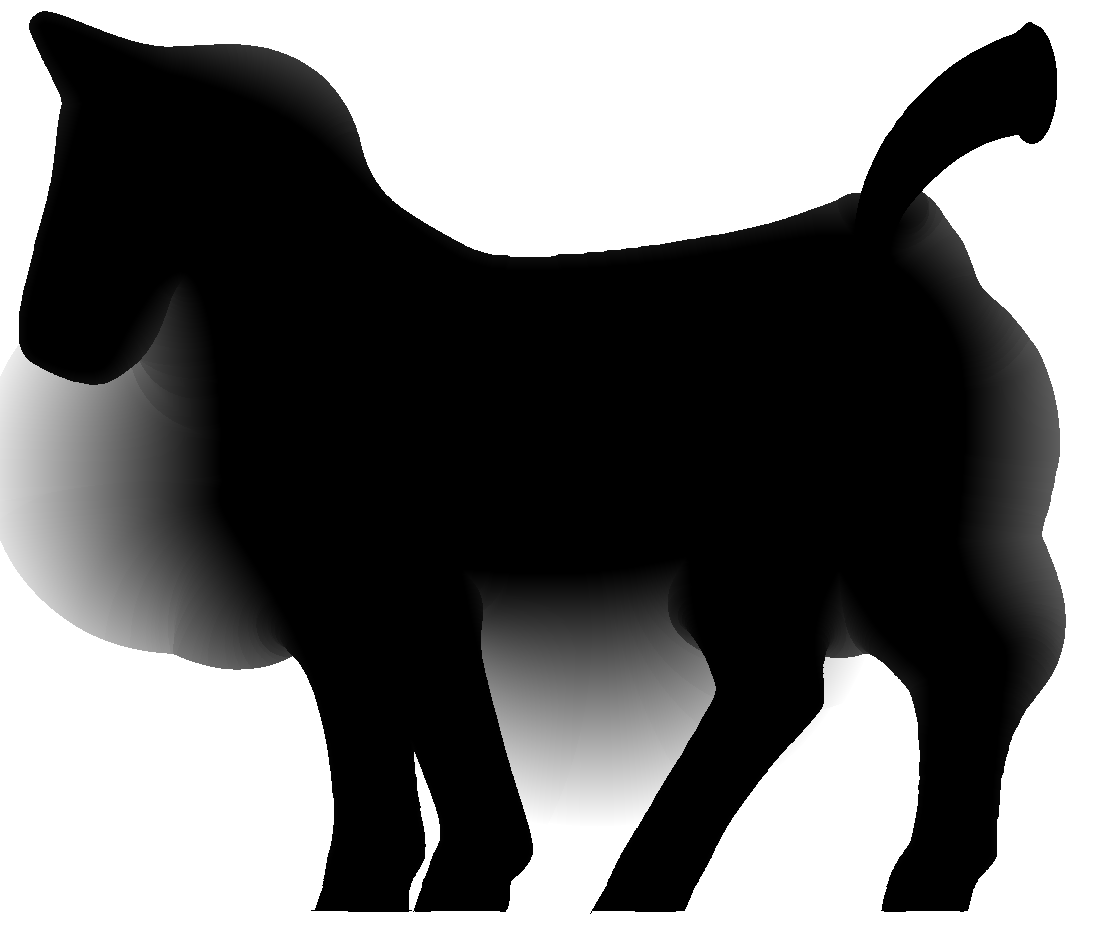
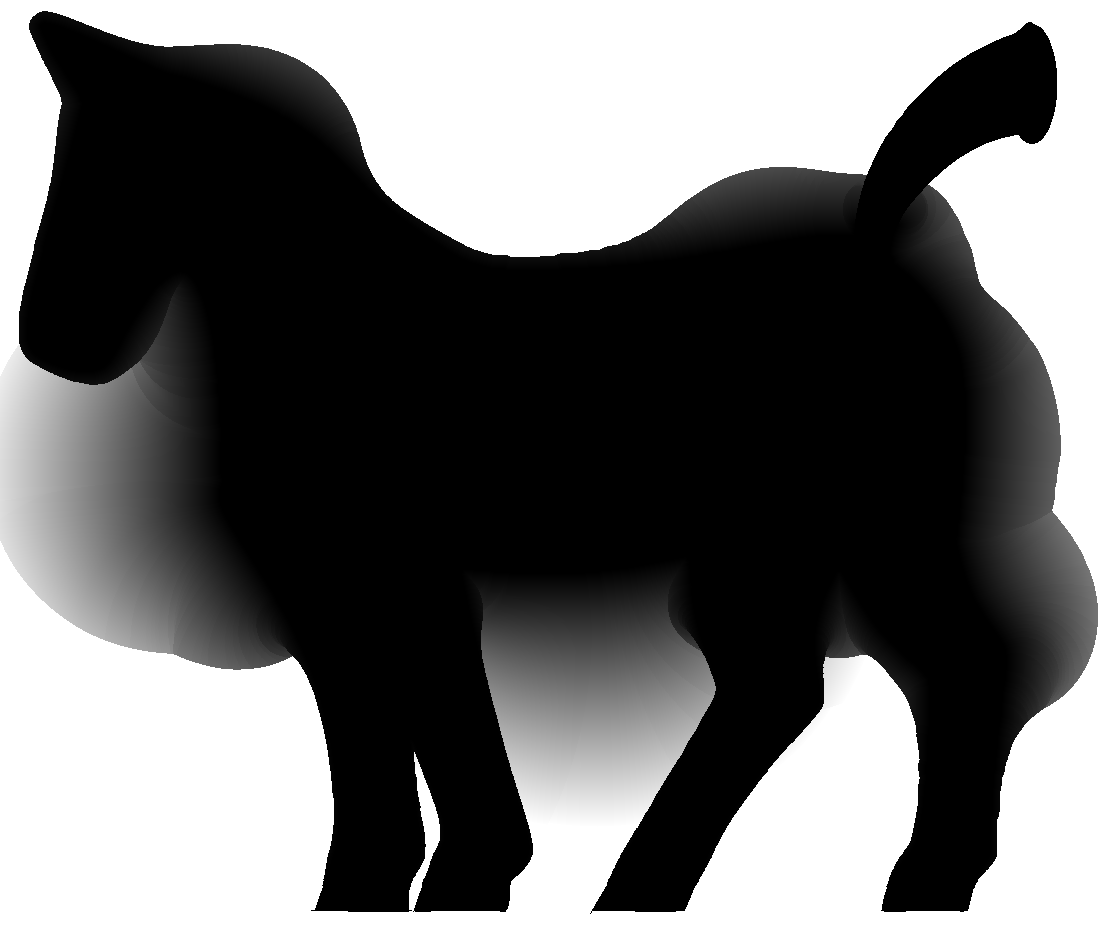
Feral horse round 5: the cheek's top is the back line (above it when fat, sagging onto the thigh), the belly is a sagging circle
Claude-Session: https://claude.ai/code/session_01BbqwAJD2Vg3JdyvgRbQtV6

diff --git a/lab/feral/bench.src.html b/lab/feral/bench.src.html
@@ -96,7 +96,7 @@ const ASSET = /*ASSETS*/null;
 /*ENGINE*/
 
 // ---------- the feral body: the app's soft belly on the horse's own outline, a neck that bends for the belch, the app's fat scheme
-const M = RIG, PAD = 44, OX = 110, OY = 80, OXR = 80, still = () => matchMedia("(prefers-reduced-motion: reduce)").matches;
+const M = RIG, PAD = 44, OX = 110, OY = 80, OXR = 150, still = () => matchMedia("(prefers-reduced-motion: reduce)").matches;
 const IMG = {}; for (const k in ASSET) IMG[k] = Object.assign(new Image(), { src: ASSET[k] });
 const ready = () => Object.values(IMG).every(i => i.complete && i.naturalWidth);
 const canvasOf = (w, h) => Object.assign(document.createElement("canvas"), { width: w, height: h });
@@ -111,8 +111,12 @@ function refit() {
   const key = E.fill.toFixed(4) + ":" + E.fat.toFixed(3); if (key === E.fitKey) return; E.fitKey = key;
   const N = silSoft(bellyAt(Math.max(0, E.fill), E.fat), M.belly.mob, SOFT), B = E.belly;
   B.pts = N.pts; B.nrm = N.nrm; B.cx = N.cx; B.cy = N.cy; B.ry = N.ry;
+  // how loose each point is follows where it is now: fixed where it sits up inside the body, free where it hangs below
+  const y0 = M.belly.rootY + E.fat * M.fat.drop, y1 = M.belly.looseY + E.fat * M.fat.drop;
+  B.mob = B.pts.map(p => { const u = Math.max(0, Math.min(1, (p[1] - y0) / (y1 - y0))); return u * u * (3 - 2 * u); }); B.cmob = B.ci.map(i => B.mob[i]); B.seam = B.mob.map(m => m > 0.12 ? 1 : 0);
   const sz = 0.3 + 0.7 * Math.max(0, Math.min(1, E.fill)); B.cap = SOFT.cap * sz; B.max = SOFT.max * sz;   // a small belly wobbles less far than a big one
 }
+refit();
 const neckAngle = r => { const u = Math.max(0, Math.min(1, (r - M.neck.r0) / (M.neck.r1 - M.neck.r0))); return E.head.a * 1.3 * u * u * (3 - 2 * u); };
 function mouthNow() { const [px, py] = M.neck.piv, [mx, my] = M.neck.mouth, dx = mx - px, dy = my - py, a = neckAngle(Math.hypot(dx, dy)), c = Math.cos(a), s = Math.sin(a); return [px + dx * c - dy * s, py + dx * s + dy * c]; }
 function puffOne(big) {
@@ -181,7 +185,7 @@ function draw(cv) {
   f.setTransform(s, 0, 0, s, OX * s, OY * s);
   if (E.fill > 0.03) {
     const g = M.ground - 2, B = E.belly, bp = silPoints(B).map(([x, y]) => { if (y <= g) return [x, y]; const o = y - g; return [x + Math.sign(x - B.cx) * o * 0.35, g + o * 0.1]; });   // a belly that reaches the ground rests on it and spreads
-    silFill(f, bp); silSeams(f, bp, M.belly.seam, lw);
+    silFill(f, bp); silSeams(f, bp, B.seam, lw);
     // the legs on the viewer's side go back on top: the belly and its crease pass behind them, and in front of the far legs
     f.save(); f.beginPath(); for (const poly of M.near) { poly.forEach(([x, y], i) => i ? f.lineTo(x, y) : f.moveTo(x, y)); f.closePath(); } f.clip();
     f.setTransform(1, 0, 0, 1, 0, 0); f.drawImage(V.B, 0, 0); f.restore(); f.setTransform(s, 0, 0, s, OX * s, OY * s);

diff --git a/lab/feral/shot.js b/lab/feral/shot.js
@@ -5,7 +5,7 @@ await p.route('https://fonts.g**',r=>r.abort());
 await p.goto('file://'+path.resolve('out/feral-horse-bench.html'));await p.waitForTimeout(800);
 const states=JSON.parse(process.argv[2]);
 for(const [name,fill,fat,act,wait] of states){await p.evaluate(([fill,fat])=>{BENCH.setFill(fill);BENCH.setFat(fat);},[fill,fat]);await p.waitForTimeout(2200);
- if(act&&act.startsWith('drag:')){const [x1,y1,x2,y2]=act.slice(5).split(',').map(Number);const bx=await p.locator('#big').boundingBox();const q=bx.width/(1110+110+80);const P=(x,y)=>[bx.x+(x*1.5+110)*q,bx.y+(y*1.5+80)*q];
+ if(act&&act.startsWith('drag:')){const [x1,y1,x2,y2]=act.slice(5).split(',').map(Number);const bx=await p.locator('#big').boundingBox();const q=bx.width/(1110+110+150);const P=(x,y)=>[bx.x+(x*1.5+110)*q,bx.y+(y*1.5+80)*q];
   await p.mouse.move(...P(x1,y1));await p.mouse.down();for(let i=1;i<=12;i++){await p.mouse.move(...P(x1+(x2-x1)*i/12,y1+(y2-y1)*i/12));await p.waitForTimeout(16);}
   await p.locator('#stage').screenshot({path:'out/'+name+'.png'});await p.mouse.up();continue;}
  if(act)await p.evaluate(a=>BENCH[a](),act);await p.waitForTimeout(wait||0);

diff --git a/lab/feral/mkrig.py b/lab/feral/mkrig.py
@@ -13,19 +13,15 @@ def even(pts,k):   # k points evenly along a curve (the end point left for the n
         while j<len(cum)-2 and cum[j+1]<s: j+=1
         t=(s-cum[j])/max(1e-9,cum[j+1]-cum[j]); a,b=pts[j],pts[j+1]; out.append((a[0]+(b[0]-a[0])*t,a[1]+(b[1]-a[1])*t))
     return out
-P=B['shape']; NL,NR=P['neckL'],P['neckR']; NH,NT=180,60
+P=B['shape']; NBL=240
 def outline(e):
-    # the hanging part: always one smooth round curve from root to root. A light sag is a shallow arc; as it fills the sides
-    # swell out past the root and the bottom rounds into a heavy sack, a little heavier toward the back
-    D=P['depth']*e**P['depthPow']; beta=P['bulge']*e**P['bulgePow']; k=2/P['n']
-    xc=(NL[0]+NR[0])/2; a=(NR[0]-NL[0])/2; hang=[]
-    for i in range(801):   # a full, slightly squared-off half ellipse: curved at every point, never flat and never pointed
-        t=math.pi*i/800; st=math.sin(t); ct=math.cos(t); y0=NL[1]+(NR[1]-NL[1])*(1-ct)/2
-        hang.append((xc-a*math.copysign(abs(ct)**k,ct)*(1+beta*st)+P['skew']*D*st*st, y0+D*st**k))
-    return even(hang,NH)+even(bez(NR,tuple(P['topC'][0]),tuple(P['topC'][1]),NL),NT)
+    # a sagging circle: its top sits hidden inside the barrel, the rest hangs. A light meal shows as a round shallow arc;
+    # a big one hangs right out, with sides that bulge over the legs. Never a straight edge anywhere
+    D=P['depth']*e**P['depthPow']; a=P['a'][0]+P['a'][1]*e; b=a*P['round']; yc=P['under']+D-b
+    return [(P['cx']+a*math.sin(2*math.pi*i/NBL), yc-b*math.cos(2*math.pi*i/NBL)) for i in range(NBL)]
 E_=[0,0.2,0.4,0.6,0.8,1]; frames=[outline(e) for e in E_]; full=frames[-1]
 ss=lambda u:(lambda v:v*v*(3-2*v))(max(0,min(1,u)))
-m0,m1=B['mob']; ntop=NH
+m0,m1=B['mob']; ntop=NBL
 mob=[0 if i>=ntop else round(ss((y-m0)/(m1-m0)),3) for i,(x,y) in enumerate(full)]
 r=lambda ps:[[round(x*S,1),round(y*S,1)] for x,y in ps]
 fm=json.load(open('fatmeta.json')); n=B['neck']
@@ -33,11 +29,11 @@ fm=json.load(open('fatmeta.json')); n=B['neck']
 T=B['butt']; NB=168
 # one round cheek, high on the back end. Only the part that sticks out behind the body is loose; where it sits inside the
 # body it never moves. The crease is the short fold under it, where it meets the back of the thigh
-cheek=lambda o:[(o['c'][0]+o['r']*math.cos(2*math.pi*i/NB),o['c'][1]+o['r']*math.sin(2*math.pi*i/NB)) for i in range(NB)]
-c0,c1=T['mobCos']; bmob=[round(ss((math.cos(2*math.pi*i/NB)-c0)/(c1-c0)),3) for i in range(NB)]
+cheek=lambda o:[(o['c'][0]+o['r']*math.cos(2*math.pi*i/NB),o['c'][1]+(o['rb'] if math.sin(2*math.pi*i/NB)>0 else o['r'])*math.sin(2*math.pi*i/NB)) for i in range(NB)]   # round on top, a heavier hang underneath
+c0,c1=T['mobCos']; bmob=[round(ss((math.cos(2*math.pi*i/NB-math.radians(T['mobAxis']))-c0)/(c1-c0)),3) for i in range(NB)]   # loose toward the back and underneath, still where it joins the back line
 bseam=[1 if T['seam'][0]<=360*i/NB<=T['seam'][1] else 0 for i in range(NB)]
 fx0,fx1,fmin=B['dropFade']; dropw=[round(1-(1-fmin)*ss((x-fx0)/(fx1-fx0)),3) for x,y in full]
-rig={'w':1110,'h':930,'ground':B['ground']*S,'belly':{'frames':[r(f) for f in frames],'mob':mob,'dropw':dropw,'seam':[1 if m>0.12 else 0 for m in mob]},
+rig={'w':1110,'h':930,'ground':B['ground']*S,'belly':{'frames':[r(f) for f in frames],'mob':mob,'dropw':dropw,'rootY':m0*S,'looseY':m1*S,'seam':[1 if m>0.12 else 0 for m in mob]},
  'neck':{'piv':[n['piv'][0]*S,n['piv'][1]*S],'r0':n['r0']*S,'r1':n['r1']*S,'rmax':n['rmax']*S,'a0':n['a0'],'a1':n['a1'],'mouth':[n['mouth'][0]*S,n['mouth'][1]*S]},
  'butt':{'lean':r(cheek(T['lean'])),'fat':r(cheek(T['fat'])),'mob':bmob,'seam':bseam},'near':[r(p) for p in B['near']],
  'fat':{'gmax':fm['gmax'],'ds':fm['ds'],'drop':B['fatDrop']*S}}
